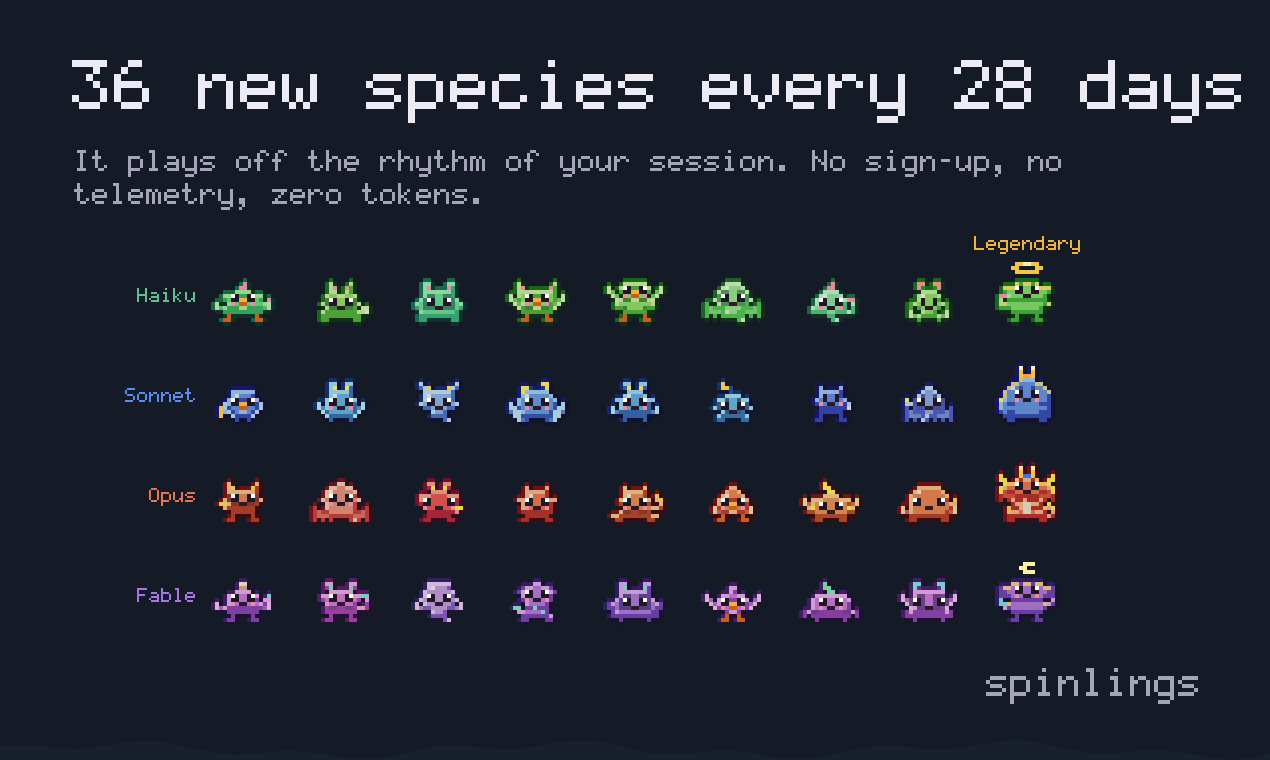
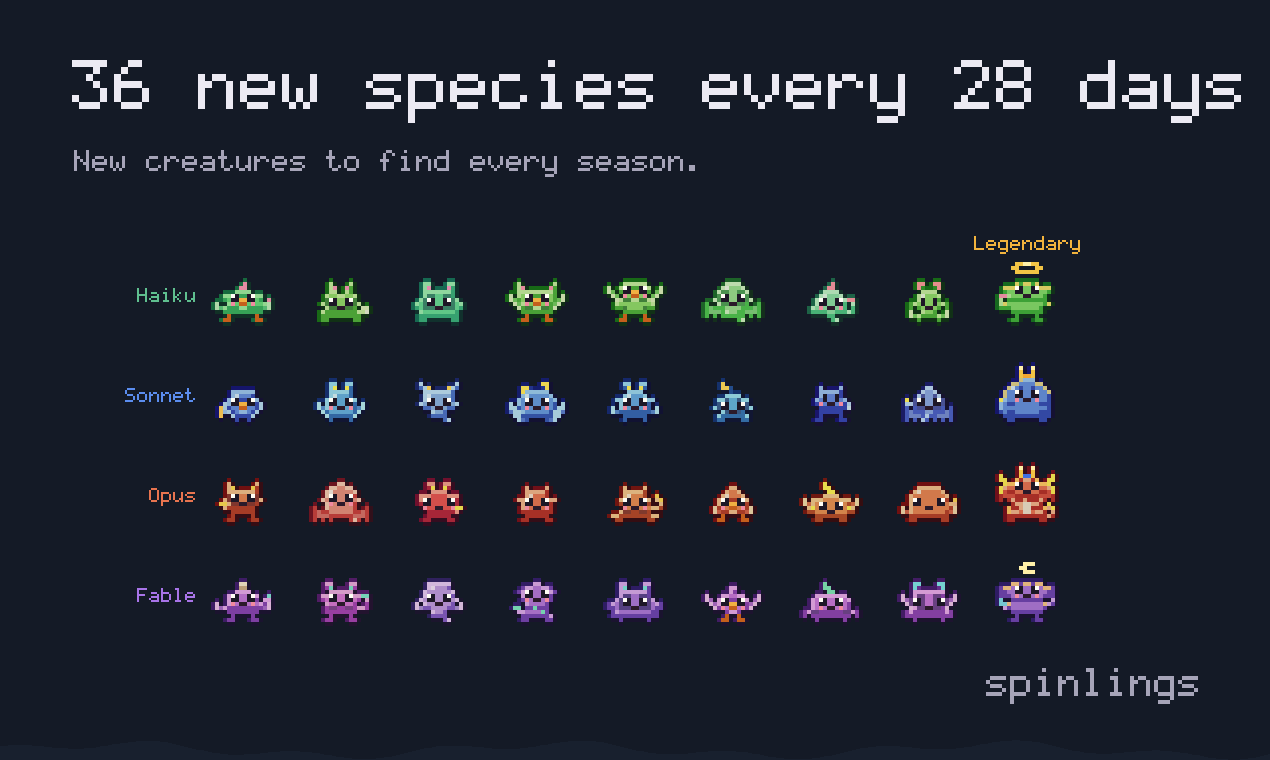
Drop the 'no sign-up, no telemetry, zero tokens' tagline everywhere
The marketplace listing, plugin description, README and share images now say
what the game is instead of what it doesn't do.

Changed region(s): [[0.0614, 0.1816, 0.6142, 0.2724], [0.6449, 0.1816, 0.8291, 0.2421]]

diff --git a/scripts/media/stills.ts b/scripts/media/stills.ts
@@ -218,7 +218,7 @@ function foilHue(t: number): number {
 /** Product Hunt 4: the season, and what the game never reads. */
 function season(W: number, H: number): Canvas {
   const c = frame(W, H)
-  heading(c, W, '36 new species every 28 days', 'It plays off the rhythm of your session. No sign-up, no telemetry, zero tokens.')
+  heading(c, W, '36 new species every 28 days', 'New creatures to find every season.')
   const s = 4, cell = 16 * s + 34, rowH = 16 * s + 36
   const x0 = Math.round((W - 9 * cell + 34) / 2)
   FAMILIES.forEach((f, row) => {
@@ -278,7 +278,7 @@ function social(W: number, H: number): Canvas {
   const c = frame(W, H)
   wordmark(c, 80, 96, 13)
   text(c, 86, 236, 'A creature card game that lives inside Claude Code.', TEXT, 3)
-  text(c, 86, 272, 'No sign-up, zero tokens. Open source.', SOFT, 3)
+  text(c, 86, 272, 'Open source.', SOFT, 3)
   const picks: [Family, number][] = [['haiku', 0], ['sonnet', 1], ['opus', 0], ['fable', 3], ['haiku', 8]]
   picks.forEach(([f, i], k) => {
     const sp = familySpecies(1, f)[i]!

diff --git a/README.md b/README.md
@@ -6,8 +6,6 @@
 
 Spinlings is a creature card game that lives inside Claude Code. While Claude works, wild creatures rustle into a slim band above the prompt and your team of three battles them. Win, and you might catch one. Every card is one of a kind, with its own look, genes and traits. You can fuse two cards into a hybrid nobody has seen before, and trade or gift cards with other players.
 
-It plays off the rhythm of your session, which model is running and whether Claude is busy, and costs zero tokens. The full list of what it hooks is [below](#what-spinlings-cant-read).
-
 The world lives at [spinlings.dev](https://spinlings.dev), or entirely on your machine if you play offline.
 
 <p align="center">
@@ -17,8 +15,7 @@ The world lives at [spinlings.dev](https://spinlings.dev), or entirely on your m
   </picture>
 </p>
 
-- **No sign-up.** The server hands you a random handle like `soft-otter-42`, unrelated to your Claude account, email, organization or machine. No email, no password, no GitHub login. An optional passkey brings your collection to another computer.
-- **No telemetry.** No analytics and no third-party requests. The mod talks to one server, and you can run your own.
+- **No sign-up.** You get a random handle like `soft-otter-42` and start playing. A passkey brings your collection to another computer.
 - **Stays out of Claude's way.** It makes no model calls, adds nothing to Claude's context, and never blocks or slows Claude.
 - **Playable alone.** Generated Rivals and a Wandering Trader fill in whenever no other player is around, so the game works on day one.
 - **Free.** Nothing to buy, and cards have no cash value.
@@ -51,7 +48,7 @@ claude plugin validate spinlings/plugin
 
 **First run.** There is nothing to type. Instead of a sign-up, the mod solves a quick anti-spam puzzle and joins [spinlings.dev](https://spinlings.dev) on its own. You get a starter team of three, two welcome packs and 100 sparks. The band says it once: `✦ A Spinling hatched!`, with `[1] Open your welcome pack`. Then creatures find you while Claude works, and `/spin` opens your collection whenever you like.
 
-**Online or offline.** You start in the online world: anonymous, with no sign-up and nothing personal. To play entirely offline, where nothing ever leaves your machine, set the **World** option to `offline` before your first session (`/plugin configure spinlings@spinlings`, or add `--config world=offline` to the shell install), or run `/spin world offline` at any time. Each world keeps its own collection, and switching never deletes anything. If the mod cannot reach the server on the first run, it starts you offline.
+**Online or offline.** You start in the online world, where you trade, duel and climb the boards with other players. To play entirely offline, where nothing ever leaves your machine, set the **World** option to `offline` before your first session (`/plugin configure spinlings@spinlings`, or add `--config world=offline` to the shell install), or run `/spin world offline` at any time. Each world keeps its own collection, and switching never deletes anything. If the mod cannot reach the server on the first run, it starts you offline.
 
 `/spin quiet` silences everything. To leave for good, delete your account from `/spin privacy`, then run `claude plugin uninstall spinlings@spinlings`.
 
@@ -201,7 +198,7 @@ Some of those events carry content the mod does not need. It never reads these f
 
 **What it calls.** Only the `ui`, `state`, `store`, `clock`, `command`, `http` and `session` parts of the mod API, plus `audio` if you turn sound on. From `session` it calls only `model`, and only the model's family ever reaches the server. It never uses `$.fs`, `$.process`, `$.model`, `$.prompt`, `$.tool`, `$.agent`, `$.mcp` or `$.env`. CI fails if any of those, or any hook outside this table, shows up in the source or in `claude plugin validate --json`.
 
-**It costs zero tokens.** No model calls, nothing added to Claude's context, and no tools Claude can call. Every `/spin` command returns an empty result, and anything it prints goes to a dim log line the model never reads.
+**It uses none of Claude's tokens.** No model calls, nothing added to Claude's context, and no tools Claude can call. Every `/spin` command returns an empty result, and anything it prints goes to a dim log line the model never reads.
 
 **It never rewards usage.** Nothing scales with tokens, turns, tool calls, prompts, cost or context. Battle rewards are fixed amounts per result, never scaled by tokens, turns or time, and the server spaces battles out. Packs charge from time with Claude Code open, idle time included. Burning through your plan earns nothing.
 
@@ -212,7 +209,7 @@ Privacy outranks every other rule in the game. In short:
 - **No identity.** You are a random token and a random handle (`adjective-noun-NN`) chosen by the server. The mod never sends your Claude account, email, organization, machine name, OS user, session id or model id. You can reroll your handle once a week.
 - **No work or usage data leaves your machine**, except the model *family* (haiku, sonnet, opus or fable) when you join, a pack charges or a battle starts. Nobody else ever sees it. It is kept no longer than that pack or battle, and battles are deleted 7 days after they end.
 - **Other players see only** your handle, your team, the cards you mark for trade, your album count and your league, plus your handle on things you do with them, such as offers, gifts and duels. They never see wins, losses, battle counts, when you joined or were last seen, your activity, or which model you used. The leaderboard is opt-in.
-- **The server keeps the minimum**: dates instead of times wherever a rule allows, no IP addresses, no request logs, no telemetry. Old notices, offers and gifts are deleted after 30 days.
+- **The server keeps the minimum**: dates instead of times wherever a rule allows, no IP addresses, no request logs. Old notices, offers and gifts are deleted after 30 days.
 - **Delete everything** from `/spin privacy`, behind a 2-second hold. Cards you already traded away stay with their new owners.
 - **Check it yourself.** `/spin privacy` shows the last 20 requests the mod sent, with your token hidden.
 
